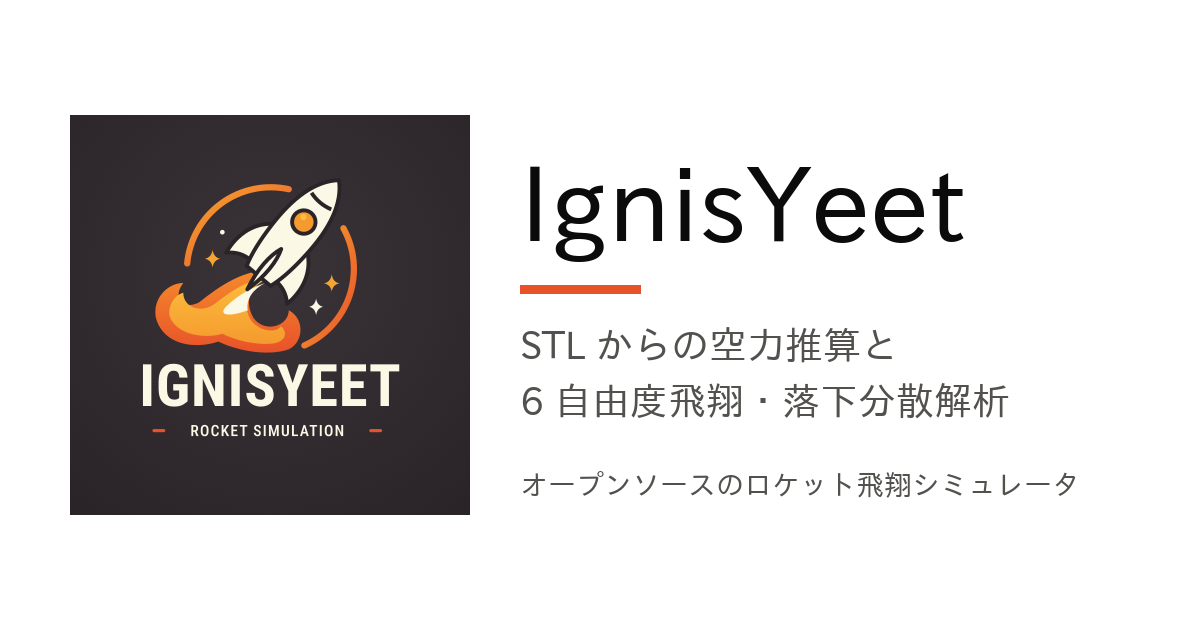
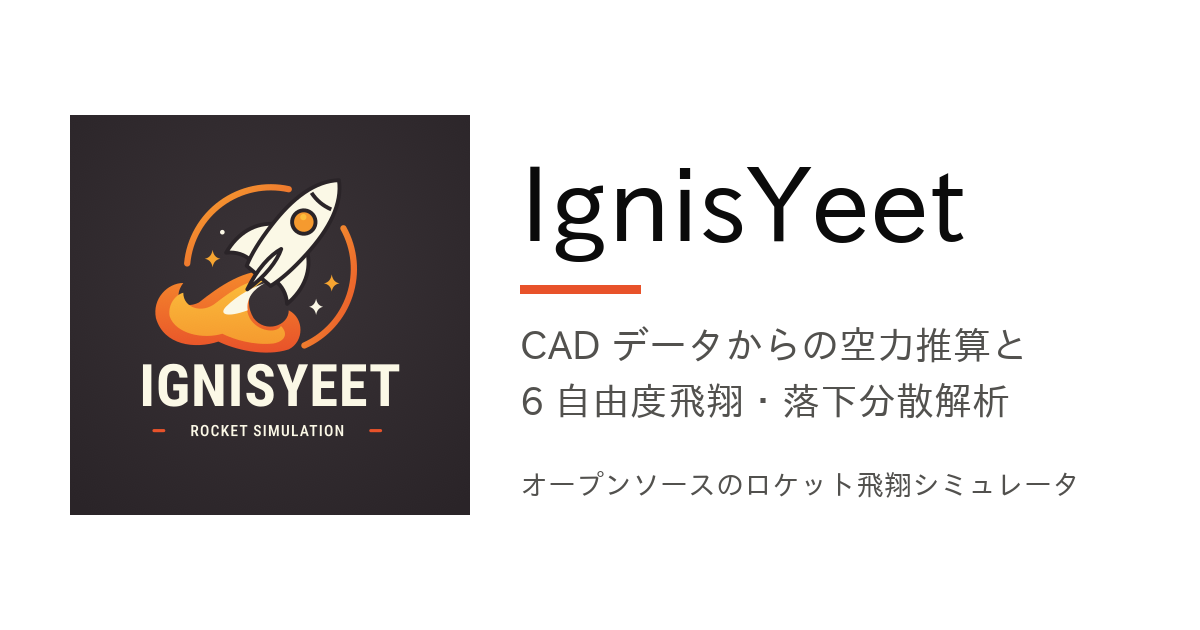
docs: describe the input as CAD data in the Open Graph image
The preview image and its alt text said STL; the input concept is the rocket's CAD data.

Changed region(s): [[0.4317, 0.5127, 0.8633, 0.573]]

diff --git a/doc/scripts/make_ogp.py b/doc/scripts/make_ogp.py
@@ -34,7 +34,7 @@ def main() -> None:
     d.text((x, 150), "IgnisYeet", font=ImageFont.truetype(FONT, 104), fill=INK)
     d.rectangle((x, 285, x + 120, 293), fill=ACCENT)
     body = ImageFont.truetype(FONT, 38)
-    for i, line in enumerate(["STL からの空力推算と", "6 自由度飛翔・落下分散解析"]):
+    for i, line in enumerate(["CAD データからの空力推算と", "6 自由度飛翔・落下分散解析"]):
         d.text((x, 325 + 56 * i), line, font=body, fill=INK2)
     d.text((x, 470), "オープンソースのロケット飛翔シミュレータ", font=ImageFont.truetype(FONT, 28), fill=INK2)
 
